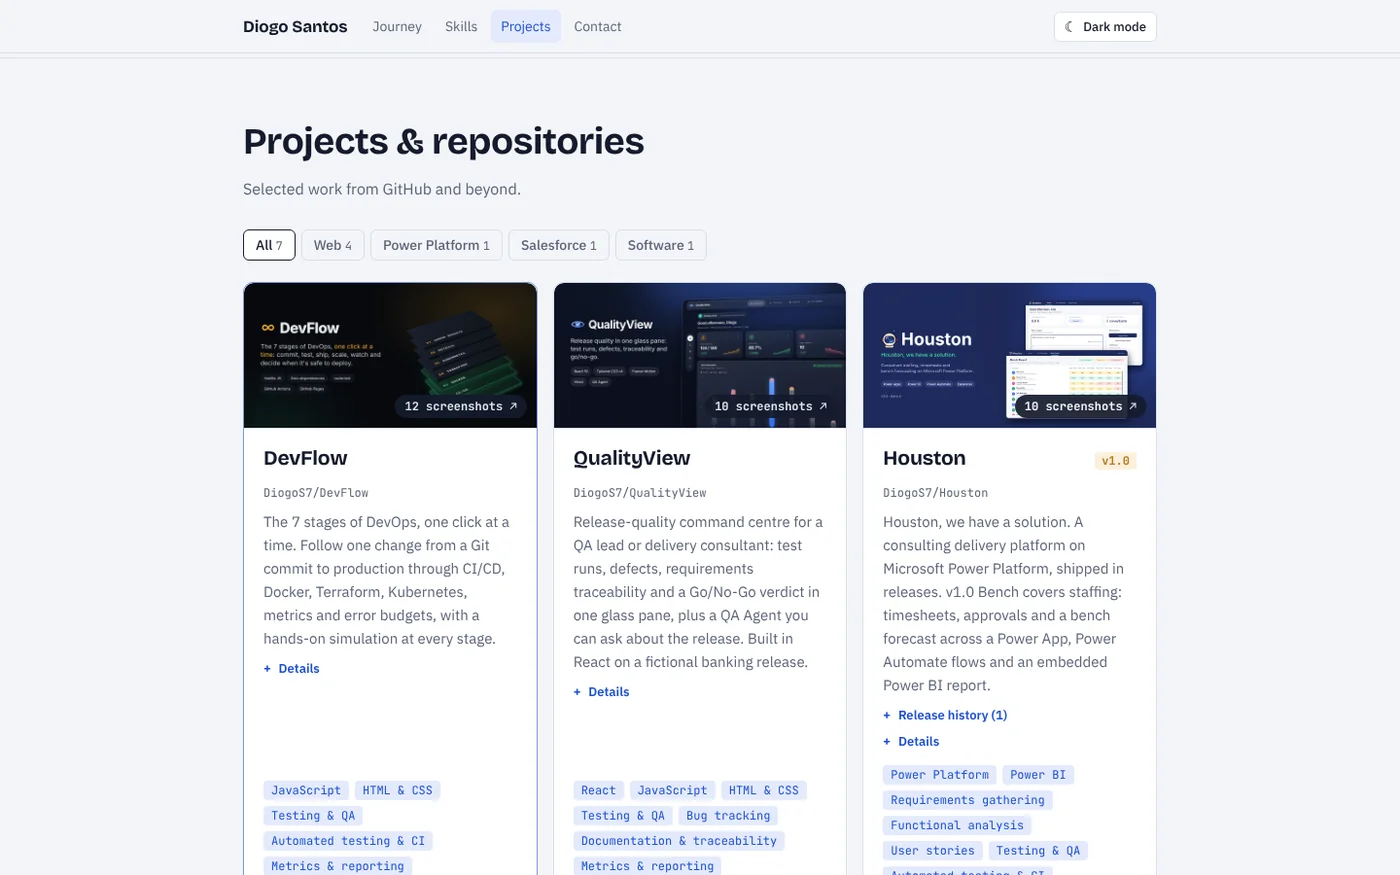
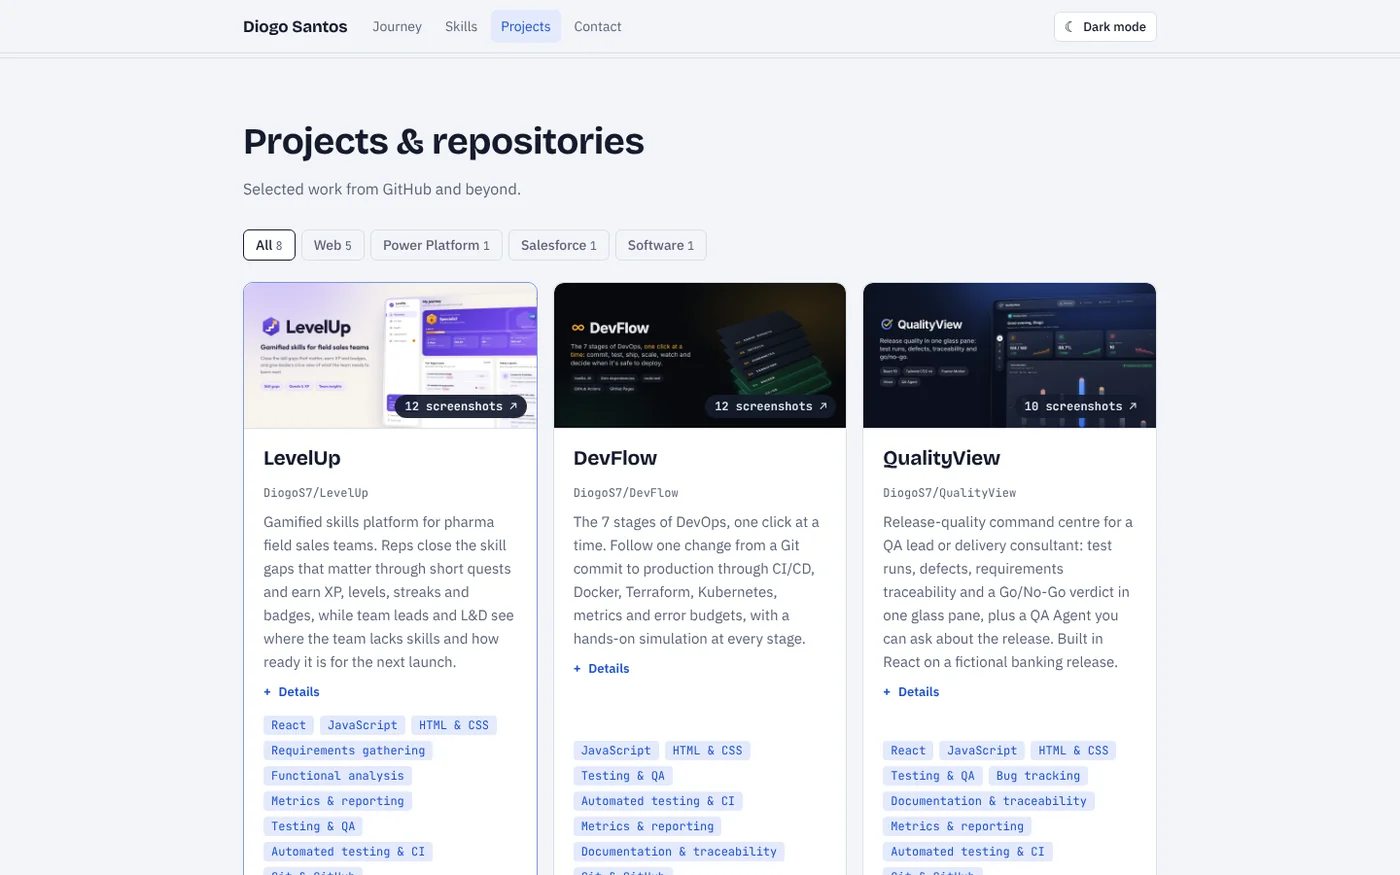
Projects: add LevelUp

diff --git a/assets/js/data.js b/assets/js/data.js
@@ -50,6 +50,26 @@ const CV = {
   ],
   projects: [
     /* newest release first */
+    { name:"LevelUp", category:"Web", repo:"DiogoS7/LevelUp",
+      url:"https://github.com/DiogoS7/LevelUp", demo:"https://diogos7.github.io/LevelUp/",
+      desc:"Gamified skills platform for pharma field sales teams. Reps close the skill gaps that matter through short quests and earn XP, levels, streaks and badges, while team leads and L&D see where the team lacks skills and how ready it is for the next launch.",
+      skills:["React","JavaScript","HTML & CSS","Requirements gathering","Functional analysis","Metrics & reporting","Testing & QA","Automated testing & CI","Git & GitHub"],
+      context:"Personal project · React · 2026",
+      shots:[
+        {src:"assets/img/shots/levelup-cover.webp", caption:"LevelUp: gamified skills for field sales teams"},
+        {src:"assets/img/shots/levelup-journey.webp", caption:"My journey: level, XP, streak, the coach's suggested quest, biggest gaps and today's quests"},
+        {src:"assets/img/shots/levelup-skills.webp", caption:"My skills: a radar against the role's targets, with every skill's level and business demand"},
+        {src:"assets/img/shots/levelup-quests.webp", caption:"Quests: the quest board, ranked by what helps you most"},
+        {src:"assets/img/shots/levelup-leaderboard.webp", caption:"Leaderboard: a weekly league for people and teams that resets every Monday"},
+        {src:"assets/img/shots/levelup-team-insights.webp", caption:"Team insights: adoption, launch readiness and where to focus training"},
+        {src:"assets/img/shots/levelup-heatmap.webp", caption:"Skills heatmap: every rep against every skill, coloured by the gap to target"},
+        {src:"assets/img/shots/levelup-mobile.webp", caption:"Mobile: built for reps on the road"},
+        {src:"assets/img/shots/levelup-highlight-quiz.webp", caption:"A playable quiz that pays XP for correct answers"},
+        {src:"assets/img/shots/levelup-highlight-skill.webp", caption:"Skill detail: the level, the target and why it matters now"},
+        {src:"assets/img/shots/levelup-highlight-matrix.webp", caption:"Skills in demand vs skills lacking: the top-right corner is where training helps most"},
+        {src:"assets/img/shots/levelup-highlight-review.webp", caption:"Team lead review: approve or send back role-plays before the XP is awarded"}
+      ],
+      details:["Fictional field force for Solenne Biosciences in Portugal, preparing for the launch of a new medicine","11 skills in 5 areas, each with a target per role and a business demand level; a coach suggests the next quest from the biggest gaps","Five quest types, including playable quizzes and role-plays reviewed by the team lead before XP is awarded","XP, levels, daily streaks, badges, a weekly league and a shared team challenge, designed to stay fair: only learning earns XP","Team leads and L&D get adoption KPIs, a demand vs gap matrix, launch readiness and a skills heatmap with CSV export","Every game rule is a pure function covered by Vitest unit tests; React 19, Tailwind CSS v4 and Framer Motion on Vite","GitHub Actions tests, builds and deploys to GitHub Pages"] },
 { name:"DevFlow", category:"Web", repo:"DiogoS7/DevFlow",
       url:"https://github.com/DiogoS7/DevFlow", demo:"https://diogos7.github.io/DevFlow/",
       desc:"The 7 stages of DevOps, one click at a time. Follow one change from a Git commit to production through CI/CD, Docker, Terraform, Kubernetes, metrics and error budgets, with a hands-on simulation at every stage.",
@@ -134,13 +154,13 @@ const CV = {
       context:"Personal project · 2026",
       shots:[
         {src:"assets/img/shots/cv-cover.webp?v=20261101-2", caption:"Interactive CV: a career across the solar system"},
-        {src:"assets/img/shots/cv-hero.webp?v=20261103-4", caption:"Header with intro, links and quick stats"},
+        {src:"assets/img/shots/cv-hero.webp?v=20261104-2", caption:"Header with intro, links and quick stats"},
         {src:"assets/img/shots/cv-journey.webp?v=20261101-2", caption:"Journey: the rocket reaches Jupiter, my current role as a QA consultant"},
         {src:"assets/img/shots/cv-journey-next.webp?v=20261101-2", caption:"Journey: Saturn, the next mission"},
-        {src:"assets/img/shots/cv-skills.webp?v=20261103-2", caption:"Skills filtered to Python, highlighting matching work"},
-        {src:"assets/img/shots/cv-projects.webp?v=20261103-4", caption:"Project cards with hover slideshows"},
-        {src:"assets/img/shots/cv-gallery.webp?v=20261103-4", caption:"Screenshot gallery with arrows, thumbnails and swipe"},
-        {src:"assets/img/shots/cv-projects-dark.webp?v=20261103-4", caption:"Dark theme"},
+        {src:"assets/img/shots/cv-skills.webp?v=20261104-2", caption:"Skills filtered to Python, highlighting matching work"},
+        {src:"assets/img/shots/cv-projects.webp?v=20261104-2", caption:"Project cards with hover slideshows"},
+        {src:"assets/img/shots/cv-gallery.webp?v=20261104-2", caption:"Screenshot gallery with arrows, thumbnails and swipe"},
+        {src:"assets/img/shots/cv-projects-dark.webp?v=20261104-2", caption:"Dark theme"},
         {src:"assets/img/shots/cv-phone-journey.webp?v=20261101-2", caption:"Phone layout with the flight pinned to the top"},
       ],
       details:["Canvas animation of a rocket flying from Mercury to interstellar space as you scroll","Skill filters dim projects and milestones that don't use the skill","Screenshot galleries with keyboard and swipe support","Light and dark themes; works from phone to desktop; no frameworks or build step"] },

diff --git a/index.html b/index.html
@@ -106,7 +106,7 @@
   </div>
 </div>
 <footer><div class="wrap">© 2026 Diogo Santos · Business analyst &amp; consultant · Lisbon, Portugal</div></footer>
-<script src="assets/js/data.js?v=20261104"></script>
+<script src="assets/js/data.js?v=20261104-2"></script>
 <script src="assets/js/app.js?v=20261101-5"></script>
 </body>
 </html>

diff --git a/README.md b/README.md
@@ -18,7 +18,7 @@ Scroll and a rocket flies out from Mercury, one planet per milestone, towards th
 
 | Projects | Screenshot gallery |
 | --- | --- |
-| ![Project cards](docs/screenshots/projects.png) | ![Gallery open on QualityView](docs/screenshots/gallery.png) |
+| ![Project cards](docs/screenshots/projects.png) | ![Gallery open on LevelUp](docs/screenshots/gallery.png) |
 
 | Dark theme | Phone |
 | --- | --- |
